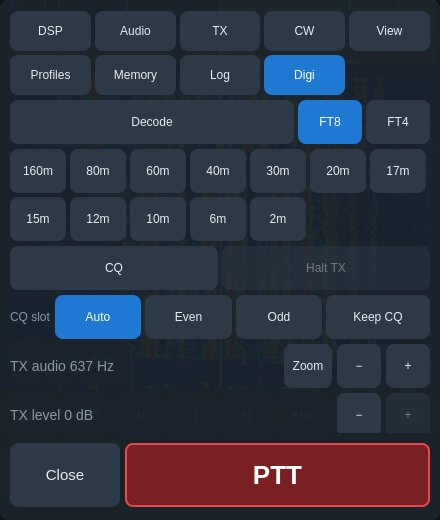
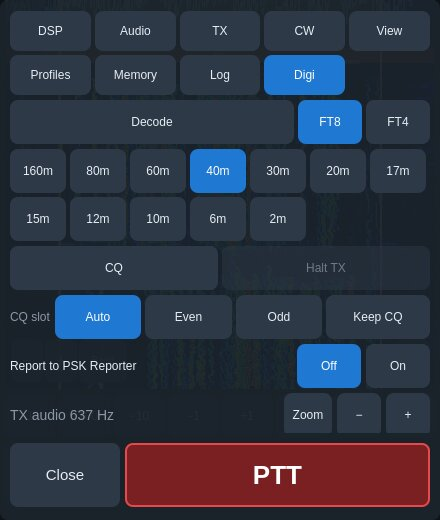
mobile: notes for build 105 and Android beta 23
Wavelog / Cloudlog, PSK Reporter, transverters, FT8 between two
nonstandard calls, the RX mark always, the Duo landscape layout; thanks
to Vesa OH6HPS, the first iPhone Duo user. Privacy policy: PSK Reporter
and Wavelog / Cloudlog. Manual: XVTR, Wavelog / Cloudlog, PSK Reporter,
nonstandard QSOs; Digi and Log tab screenshots.

Claude-Session: https://claude.ai/code/session_01KANojkzU64KoozGDbNDzRK

diff --git a/mobile/ROADMAP.md b/mobile/ROADMAP.md
@@ -5,7 +5,7 @@ queued, waiting on someone, or still to verify follows.
 
 ## Next build
 
-Nothing queued yet. To verify in build 103: the iPhone Duo inner screen full size with the iOS 27 SDK (build 102 with the scene manifest alone still ran letterboxed), and on other iPhones and iPads background/resume, SmartLink sign-in and the share sheet under the UIScene life cycle. In build 101: Keep CQ with a real answer on the air, the RX mark following a station, the clock notice on a device with a wrong clock. In build 100 (on the iPad: full drive at 0 dB; 15 W on 15 m was the band's RF power): four slices decoding for an hour without a hang, the tap flash. Build 99 on the iPad: four slices on their own DAX channels, decoding every slot. In build 97: the 3D view over SmartLink on the iPad (no switch to 2D). In build 96: dragging the TX band on a device. In build 94 (FT8 and FT4 QSOs on the iPad worked: OK2VCR, EA3FHP): RADE transmit with a device microphone and receive with a RADE station, the log in Files / Documents and the ADIF import on iOS and Android, the 2D start after a 3D hang. In build 93: FDVU / FDVL with the FreeDV waveform (by the tester who asked); menus closing on a second tap without retuning; the QRZ.com sign-in result with an account. In build 92: zoom in CW down to the minimum and back out; in build 91: the Log tab on the devices
+Three TX meters wait for VA3MW. To verify in build 105: Wavelog sending from a device, PSK Reporter spots on pskreporter.info, a transverter on a device, the Duo landscape layout. Build 104 confirmed the Duo inner screen full size (Vesa OH6HPS). Still from 102/103: on other iPhones and iPads background/resume, SmartLink sign-in and the share sheet under the UIScene life cycle. In build 101: Keep CQ with a real answer on the air, the RX mark following a station, the clock notice on a device with a wrong clock. In build 100 (on the iPad: full drive at 0 dB; 15 W on 15 m was the band's RF power): four slices decoding for an hour without a hang, the tap flash. Build 99 on the iPad: four slices on their own DAX channels, decoding every slot. In build 97: the 3D view over SmartLink on the iPad (no switch to 2D). In build 96: dragging the TX band on a device. In build 94 (FT8 and FT4 QSOs on the iPad worked: OK2VCR, EA3FHP): RADE transmit with a device microphone and receive with a RADE station, the log in Files / Documents and the ADIF import on iOS and Android, the 2D start after a 3D hang. In build 93: FDVU / FDVL with the FreeDV waveform (by the tester who asked); menus closing on a second tap without retuning; the QRZ.com sign-in result with an account. In build 92: zoom in CW down to the minimum and back out; in build 91: the Log tab on the devices
 (QRZ.com lookup with an account, the ADIF share sheet on iOS and Android);
 the 3D fallback on the tablet that froze; spot labels beside the RF GAIN
 badge. Still open from build 86: an FM repeater memory on the air, DAX
@@ -52,7 +52,12 @@ iOS background).
 
 ## Released
 
-**Build 105** (2026-10-24), iPhone and iPad only:
+**Build 105** (2026-10-24), iPhone and iPad, and Android beta 23:
+- Wavelog / Cloudlog: each logged QSO to the online logbook (API v1: auth check, POST api/qso, a queue kept in the settings for offline). Checked against loki.oksa.fi (key valid rw; a dry-run QSO with station 1 accepted).
+- PSK Reporter: decoded stations reported over IPFIX (report.pskreporter.info:4739), off by default; packets checked byte by byte (templates, receiver and 55 sender records in two packets).
+- Transverter setup in Radio Setup › XVTR (tested on the FLEX: created, set, removed).
+- FT8 QSOs between two nonstandard calls without reports (stalled with SN9Q/QRP on the air).
+- Thanks to Vesa OH6HPS, the first iPhone Duo user, for testing builds 102–105 on the device.
 - The FT8 / FT4 RX mark always shown (it showed only during a QSO; asked after build 104 on the iPad): the last station worked, else the TX tone.
 - The tablet layout pins the controls at the side only where the band buttons still fit beside them (the iPhone Duo's inner screen in landscape pushed the panel off the right edge in build 104); else the drawer. The info row goes under the frequency by the left column's width.
 

diff --git a/docs/mobile/MANUAL.md b/docs/mobile/MANUAL.md
@@ -521,6 +521,15 @@ them back into the drawer.
   an ADIF file (from another logbook, or another device's OksaSDR log);
   those already in the log (same call, date, time, band and mode) are
   skipped. The QRZ.com password is kept in this device's secure store.
+  **Wavelog / Cloudlog**: with your logbook's address (as its API page
+  shows it, e.g. `https://log.example.com/index.php`), a read & write
+  **API key** (Wavelog: *API* › *Legacy API Keys (API v1)*, starting
+  `wl…`; Cloudlog: *API Keys*) and the **station ID** (the number of your
+  station location there), *Save* checks the key and says whether the
+  logbook accepted it; from then on every QSO you log, by hand or from FT8 /
+  FT4, also goes to the logbook. QSOs that cannot be sent (offline, server
+  away) wait on the device and go with the next QSO or start; the line
+  under the fields says how many wait. Clear the address to stop.
   **Where the log is** (shown on the Log tab): on an iPhone or iPad in
   Files › On My iPhone / iPad › OksaSDR › `oksasdr-log.adi`, from where it
   can be moved to iCloud Drive or opened in a logbook; on Android a copy is
@@ -579,6 +588,17 @@ them back into the drawer.
   always shown: after a QSO it stays on the last station worked; before
   the first one, and while you call CQ, it sits on your own TX tone; both labels sit on solid grounds over the
   waterfall.
+
+  **Report to PSK Reporter** (off by default) sends the stations this
+  device decodes, with their locators, frequency and SNR, to
+  pskreporter.info under your callsign and grid (set the grid on the Log
+  tab if the radio has no GPS), as WSJT-X does: each station at most once
+  per band in five minutes, sent every five minutes and when decoding stops.
+  The line under it counts what was reported.
+
+  A QSO between two **nonstandard calls** (yours with a four-letter suffix,
+  and theirs with a / suffix such as /QRP) has no FT8 message for a report:
+  the app makes it with the calls and RR73 only, and logs it without RST.
 
   If the decodes' DT is off by more than 0.8 s on average, a red notice
   says this device's clock looks off: FT8 needs it within about a second,
@@ -644,6 +664,13 @@ radio.
   (1450 by default, as in SmartSDR and the desktop). Lower it if the
   waterfall or audio break up over a VPN or tunnel; over Tailscale at most
   1200 is used.
+- **XVTR** — the radio's transverters, as the desktop's XVTR tab: *Add
+  transverter* creates one; for each, its name (shown on the band buttons),
+  RF frequency (the band, MHz), IF frequency (the radio's, MHz; LO = RF −
+  IF is shown), LO error (MHz, for the converter's offset), RX gain (dB),
+  max power (dBm of drive to the transverter at its IF, kept within what the
+  radio allows) and *Receive only*; *Remove* deletes it. The radio says when
+  a transverter is valid.
 
 **A new radio.** When the app connects to a radio that has no callsign yet —
 a new or reset radio — it offers *Set up* once, a few seconds after

diff --git a/mobile/android/RELEASE_NOTES.md b/mobile/android/RELEASE_NOTES.md
@@ -1,16 +1,18 @@
-**OksaSDR for Android — beta 22.** A FlexRadio client for Android phones and tablets, built on the [AetherSDR](https://github.com/aethersdr/AetherSDR) engine: the same app as on the iPhone and iPad (TestFlight build 104), from the same code.
+**OksaSDR for Android — beta 23.** A FlexRadio client for Android phones and tablets, built on the [AetherSDR](https://github.com/aethersdr/AetherSDR) engine: the same app as on the iPhone and iPad (TestFlight build 105), from the same code.
 
-### New in beta 22
-- **FT8 / FT4 state at the top of the display**, so it stays in view while you scroll the decode list.
-- The radio's **speech processor (PROC) is switched off** while FT8 / FT4 transmits and back on when decoding stops.
-- Fixed: a CQ pressed right after a Digi band button could stop by itself when TX moved to that slice.
+### New in beta 23
+- **Wavelog / Cloudlog** (Log tab): every QSO you log, by hand or FT8 / FT4, also goes to your online logbook; queued while offline. Save checks the API key and says whether it was accepted.
+- **PSK Reporter** (Digi tab, off by default): reports the stations you decode, as WSJT-X does.
+- **Transverters** in Radio Setup › XVTR: add, edit and remove them.
+- FT8 / FT4: a QSO between two nonstandard calls now completes, without reports; the green RX mark is always shown.
+- Tablets and foldables: the controls panel no longer runs off the right edge where it does not fit beside the display (it opens from Controls).
 
-Still new from betas 14–21: FT8 and FT4 in the app (Controls › Digi) on every DIGU slice with WSJT-X colours, RX / TX marks, Keep CQ and CQ slot, the New / New DXCC filter, tap-to-answer, full power with TX level, AGC by mode, RADE digital voice, the log in Files › Documents › OksaSDR, ADIF import.
+Still new from betas 14–22: FT8 and FT4 in the app (Controls › Digi) on every DIGU slice with WSJT-X colours, RX / TX marks, the state banner, Keep CQ and CQ slot, the New / New DXCC filter, tap-to-answer, full power with TX level, PROC off for FT8, AGC by mode, RADE digital voice, the log in Files › Documents › OksaSDR, ADIF import.
 
 ### Install or update
-1. Download `OksaSDR-android-beta22.apk` below on the phone (about 150 MB).
+1. Download `OksaSDR-android-beta23.apk` below on the phone (about 150 MB).
 2. Open it; allow installing from your browser or file manager when Android asks. If Chrome keeps the download waiting, open ⋮ → *Downloads* → *Keep*.
-3. Beta 22 installs over earlier betas and keeps your settings. If you have one of the earlier hand-delivered test APKs, uninstall it first (different signing key).
+3. Beta 23 installs over earlier betas and keeps your settings. If you have one of the earlier hand-delivered test APKs, uninstall it first (different signing key).
 
 Android 9 or newer, 64-bit ARM. On the first connect, allow notifications, the microphone and "no battery optimization" so receive keeps going in the background and PTT can transmit.
 

diff --git a/mobile/PRIVACY.md b/mobile/PRIVACY.md
@@ -10,7 +10,8 @@ through TestFlight and as the Android beta from
 
 The app collects no personal data. Nothing you do in the app is sent to the
 developer. It connects to a third-party service only when you use a feature
-that needs it (SmartLink, QRZ.com, a DX cluster), as listed below.
+that needs it (SmartLink, QRZ.com, a DX cluster, PSK Reporter, your own
+Wavelog or Cloudlog logbook), as listed below.
 
 ## Network use
 
@@ -31,12 +32,21 @@ these services:
   you type is looked up there with your account.
 - **A DX cluster**, if you turn it on: the app connects to the cluster
   server you choose, signs in with your callsign and receives its spots.
+- **PSK Reporter**, only if you turn on *Report to PSK Reporter* on the
+  Digi tab (off by default): the callsigns, locators, frequencies, SNR and
+  times of the FT8 / FT4 stations this device decodes are sent to
+  report.pskreporter.info with your callsign, your grid and the app's name
+  and version, and are published there, as WSJT-X does.
+- **Wavelog or Cloudlog**, only if you enter your logbook's address and API
+  key on the Log tab: each QSO you log is sent to that logbook (your own
+  server, or the one you use) with its ADIF fields. QSOs that could not be
+  sent wait on the device until they can.
 - **Developer link** (Log tab), off unless turned on: for the developer's
   own devices; it sends the app's log to the address set there.
 
 The app contains no analytics, advertising, tracking or crash-reporting SDKs,
 and it makes no other internet connections. FT8 / FT4 decoding and RADE run
-on the device; nothing is sent to PSKReporter or similar services.
+on the device.
 
 ## Microphone
 
@@ -64,7 +74,8 @@ your device, except as part of the normal connection to your radio.
   the device: in the app's folder in Files on iPhone and iPad, in
   Documents › OksaSDR on Android and on a computer. It leaves the device
   only when you share or move it yourself.
-- **Sign-ins**: the SmartLink sign-in and the QRZ.com password are kept in
+- **Sign-ins**: the SmartLink sign-in, the QRZ.com password and the
+  Wavelog / Cloudlog API key are kept in
   the device's secure store (Keychain on Apple devices); a SmartLink
   password is never stored.
 - The in-app diagnostic log is kept in memory only. It is shared only if
@@ -89,4 +100,4 @@ children.
 
 Questions about this policy: oh6oksa@gmail.com
 
-Last updated: 2026-10-24
+Last updated: 2026-10-24 (PSK Reporter, Wavelog / Cloudlog)

diff --git a/README.md b/README.md
@@ -180,7 +180,11 @@ radio interface, with no computer running alongside.
   the prefix), worked-before and dupe check, POTA / WWFF references, and
   the log as an ADIF file in Files (iPhone, iPad) or Documents (Android,
   computer): share it to your logbook or LoTW, or import contacts from
-  another logbook.
+  another logbook. Every QSO can also go straight to your **Wavelog** or
+  **Cloudlog** logbook, queued while offline.
+- **PSK Reporter**: report the stations you decode, as WSJT-X does (off by
+  default).
+- **Transverters** set up in Radio Setup (XVTR).
 
 **Remote (SmartLink)**
 - Sign in with your FlexRadio SmartLink account and connect to your radio
@@ -257,8 +261,7 @@ refreshed with every user-interface change.</sub>
 | LAN discovery on iOS | ⏳ Needs Apple's multicast entitlement. Connect by IP for now. |
 | LAN discovery on Android | 🧪 Built in; to be verified on the radio's own network |
 
-**Next:** see the [roadmap](mobile/ROADMAP.md): three TX meters,
-sending the log to Wavelog / Cloudlog, transverter setup.
+**Next:** see the [roadmap](mobile/ROADMAP.md): three TX meters.
 
 ## Try it
 
